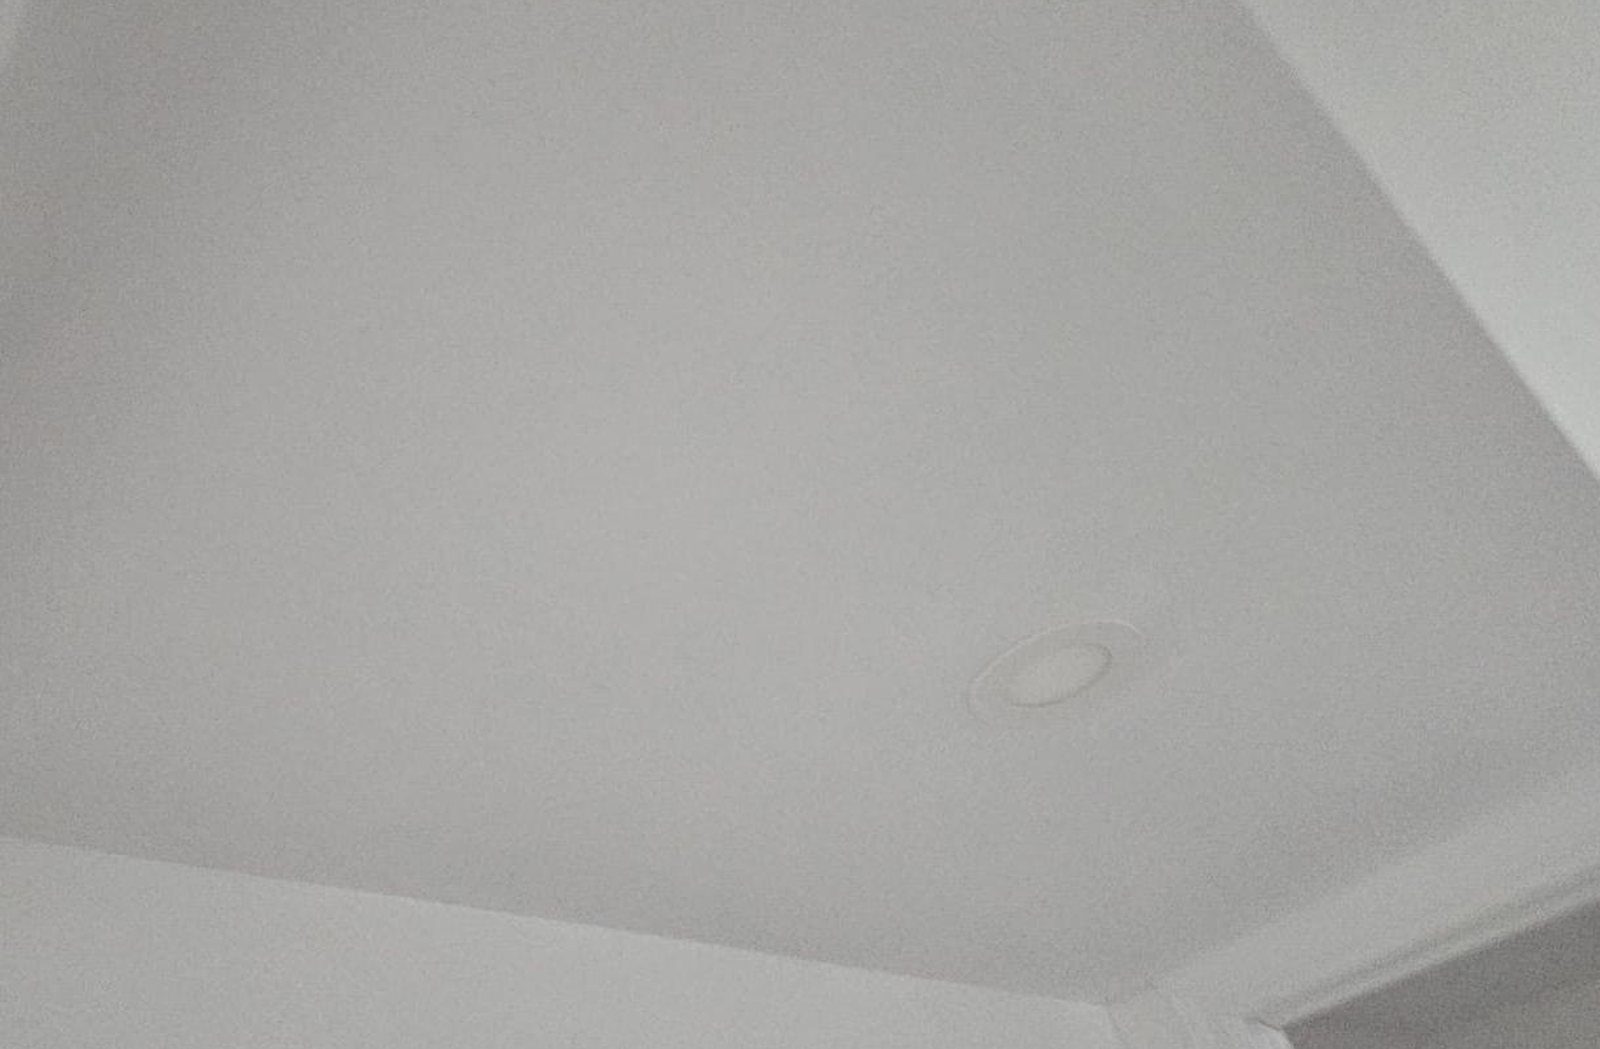
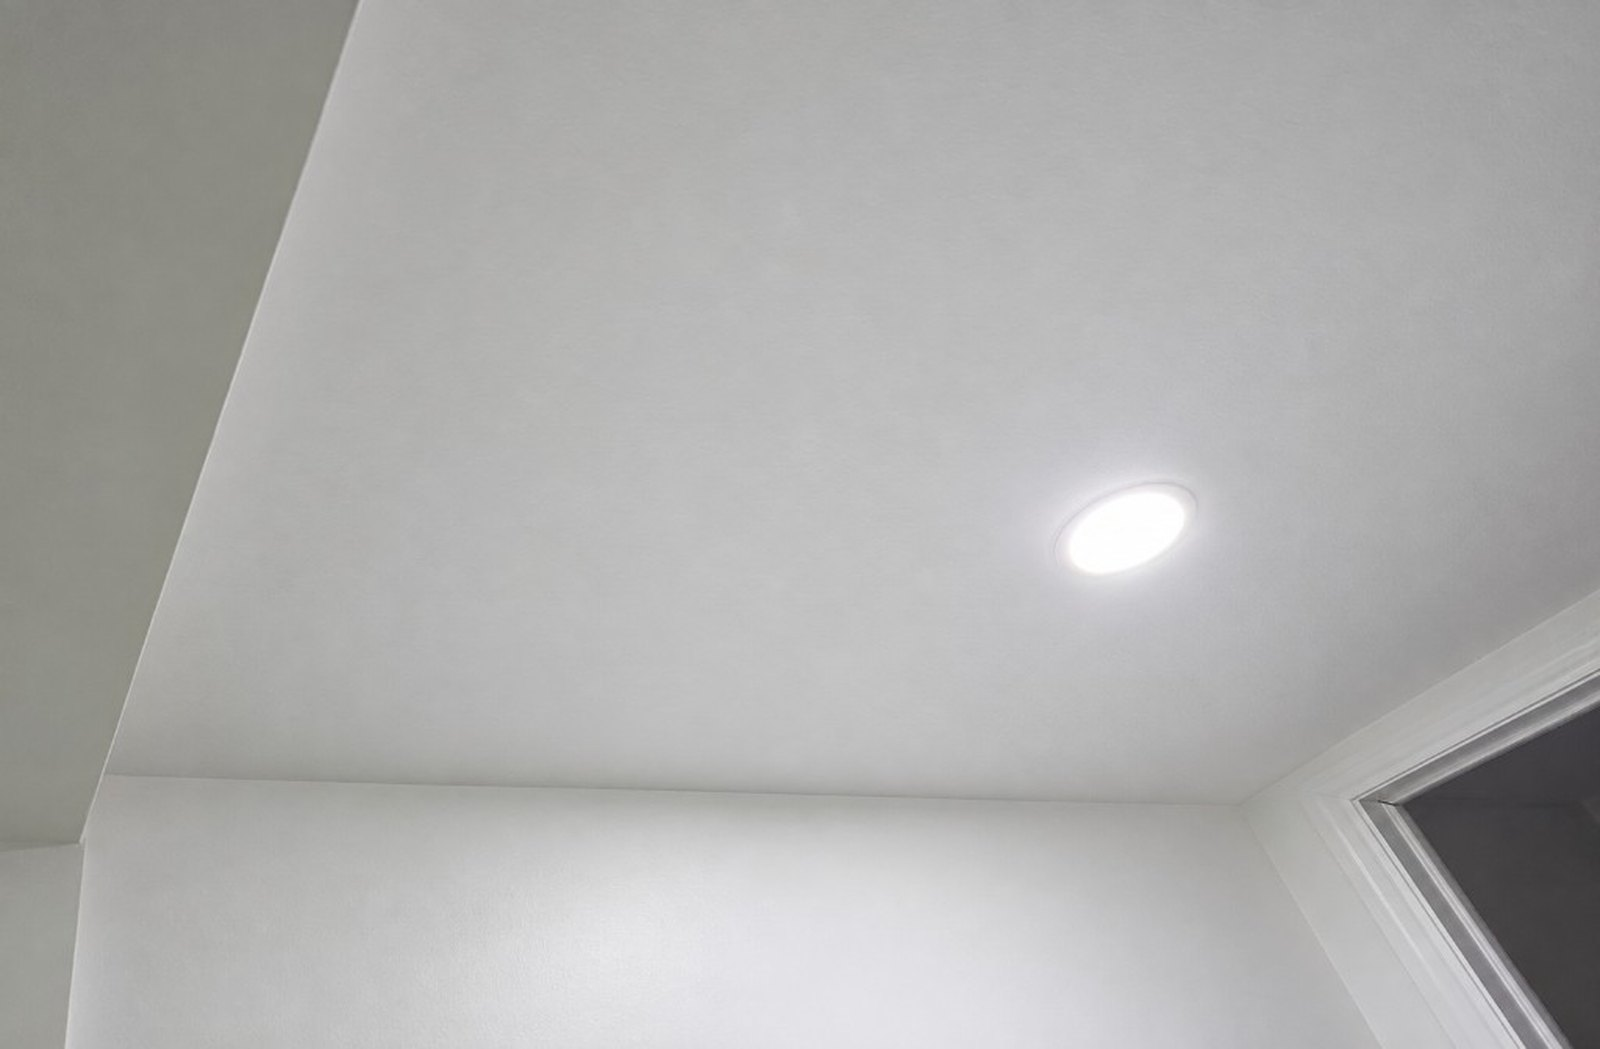
Use the finished ceiling photo as the after side of the hero slider.

diff --git a/index.html b/index.html
@@ -95,7 +95,7 @@
 <div class="lg:col-span-5 flex flex-col gap-space-sm">
 <div class="relative w-full h-64 sm:h-80 rounded-xl overflow-hidden select-none shadow-xl group touch-none" id="heroComparisonCard">
 <!-- After Image (Full background) -->
-<img class="absolute inset-0 w-full h-full object-cover" alt="Finished white ceiling with the cutouts patched and a recessed light in place" src="hero-after.jpg"/>
+<img class="absolute inset-0 w-full h-full object-cover" alt="Finished white ceiling with the cutouts patched and a recessed light in place" src="hero-after.jpg?v=2"/>
 <div class="absolute top-4 right-4 bg-primary-container text-on-primary font-label-badge text-label-badge px-space-sm py-1 rounded-lg uppercase shadow-md z-30 pointer-events-none">
               After
             </div>
